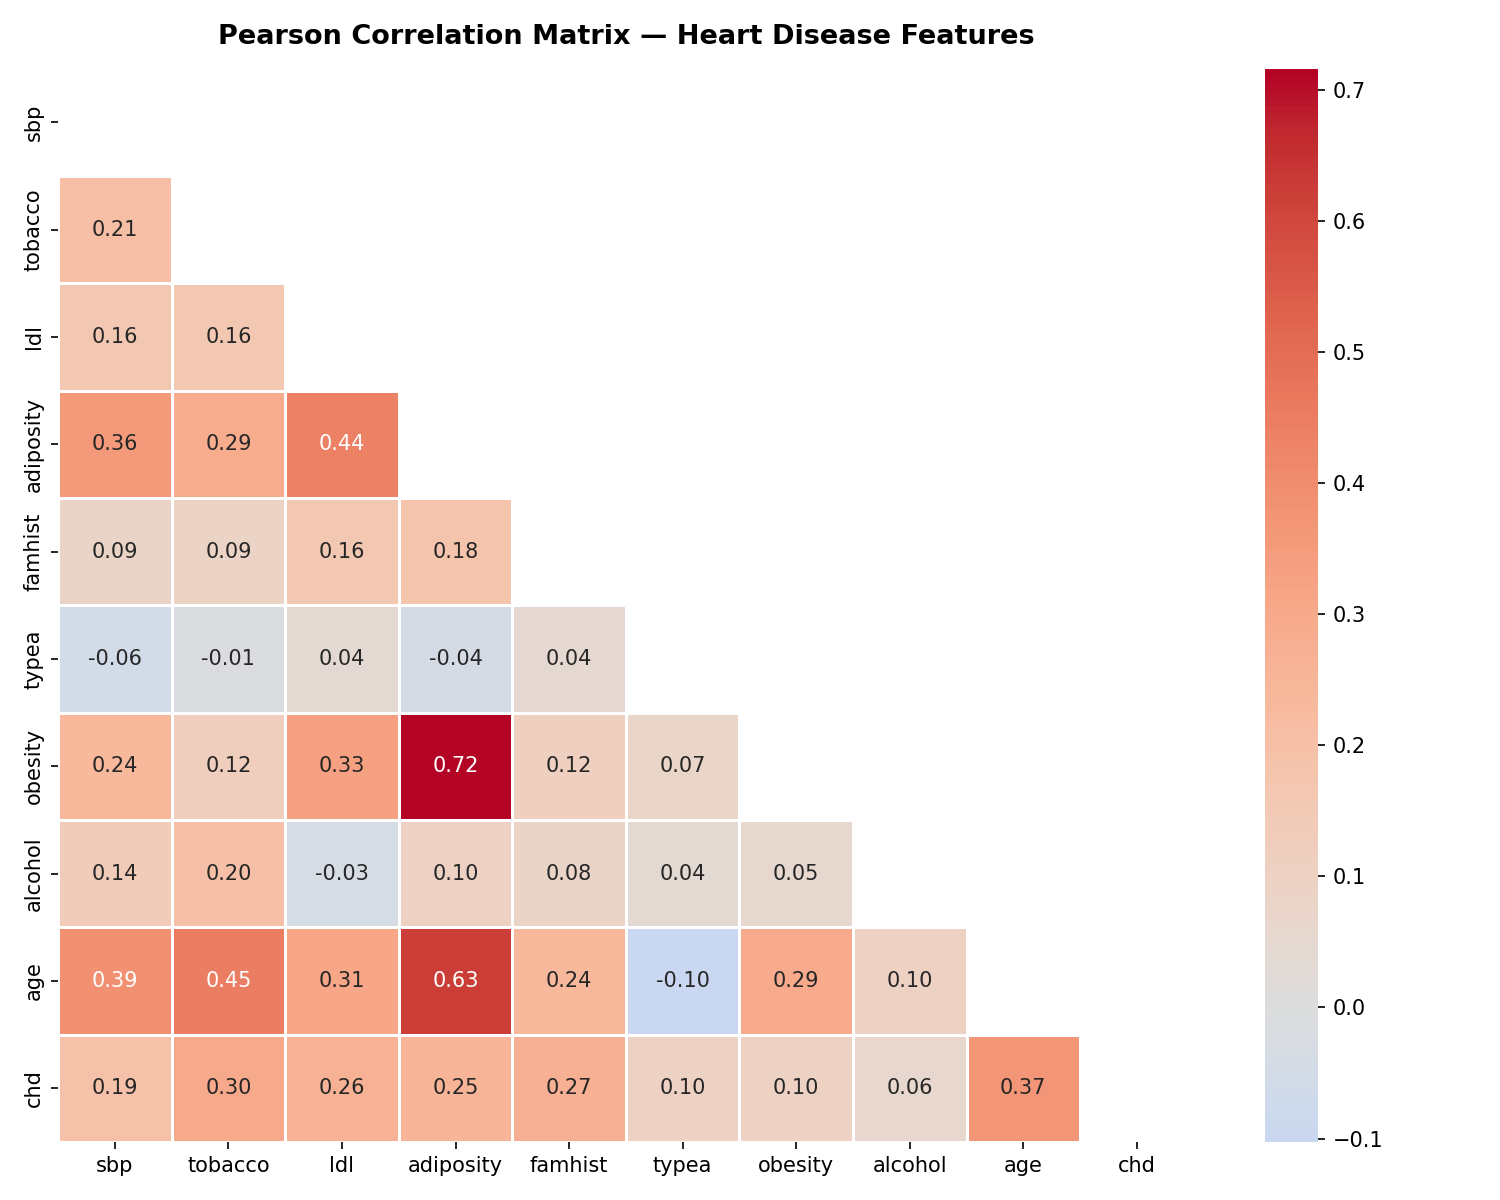
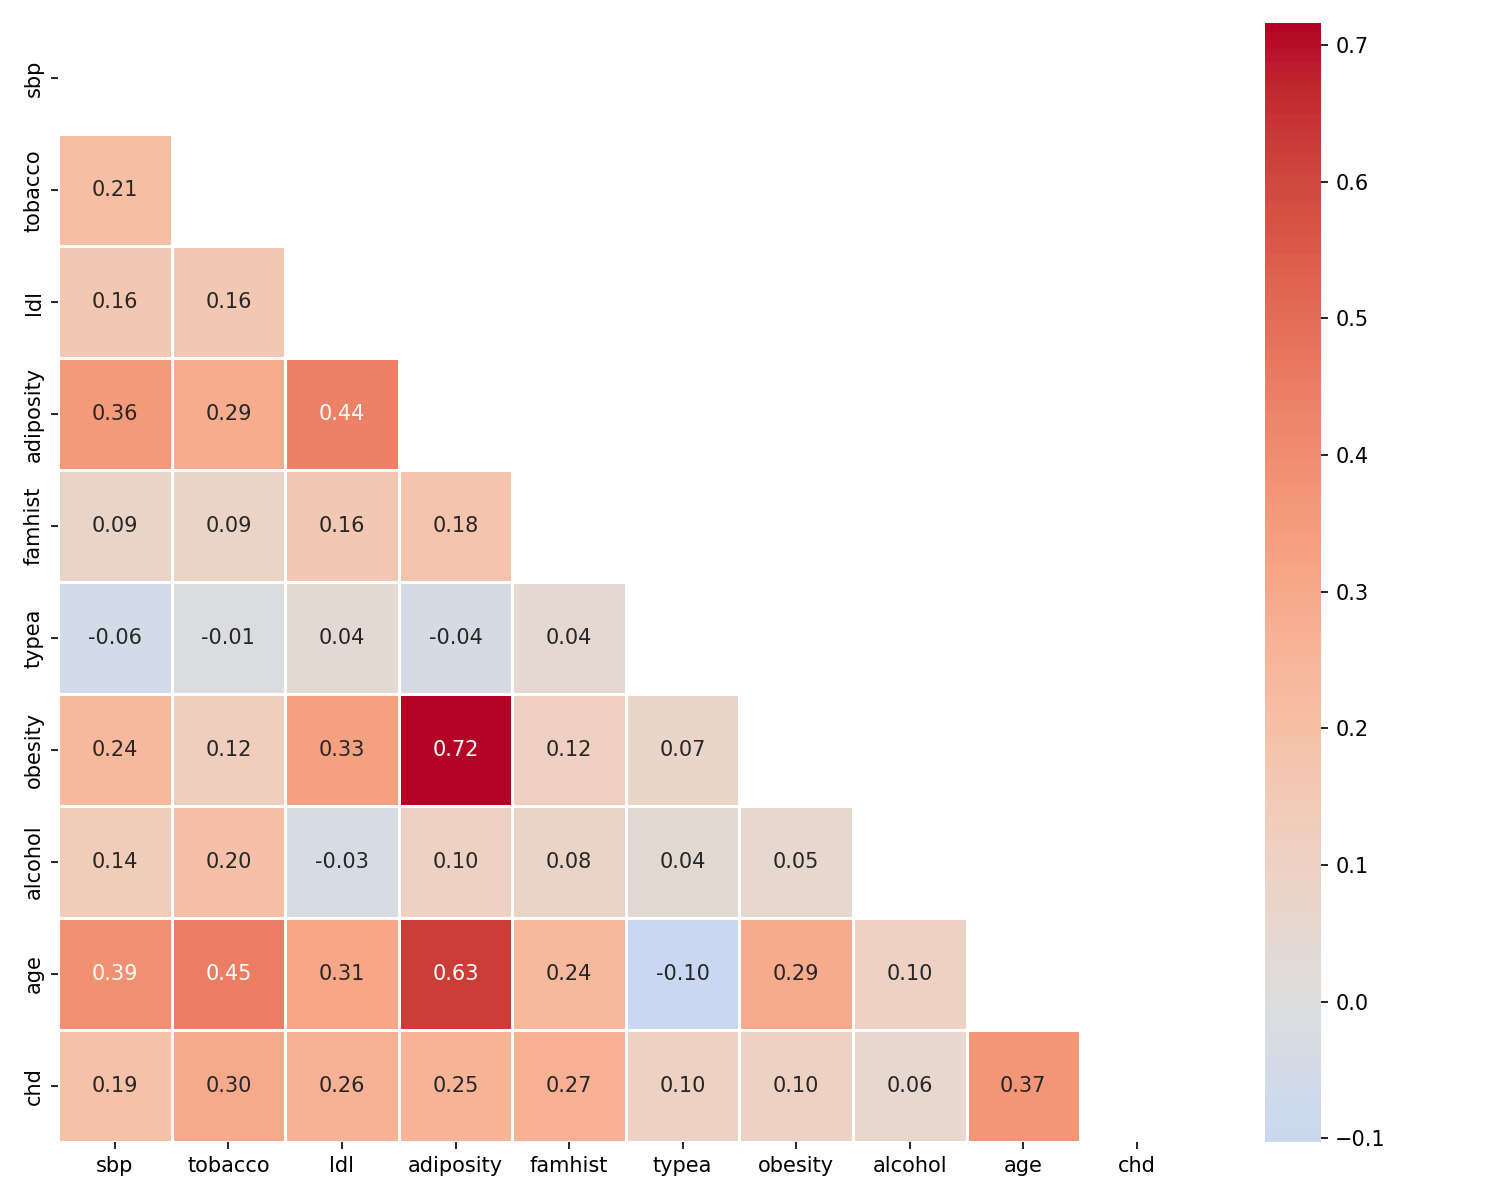
Remove titles from Figure 1 (correlation heatmap) and Figure 2 (log-transformed features)

diff --git a/exploratory_data_analysis/eda_correlation.py b/exploratory_data_analysis/eda_correlation.py
@@ -64,8 +64,6 @@ def run(df: pd.DataFrame) -> None:
         corr, mask=mask, annot=True, fmt=".2f",
         cmap="coolwarm", center=0, linewidths=0.5, ax=ax
     )
-    ax.set_title("Pearson Correlation Matrix — Heart Disease Features",
-                 fontsize=13, fontweight="bold", pad=12)
     plt.tight_layout()
     heatmap_path = os.path.join(OUTPUT_DIR, "fig_correlation_heatmap.png")
     plt.savefig(heatmap_path, dpi=150)

diff --git a/exploratory_data_analysis/eda_distribution.py b/exploratory_data_analysis/eda_distribution.py
@@ -216,8 +216,6 @@ def run(df: pd.DataFrame) -> None:
             fontsize=10)
         axes[1, j].set_ylabel("Density")
 
-    fig.suptitle("Log-Transformation of Dynamically Identified Skewed Features",
-                 fontsize=13, fontweight="bold")
     plt.tight_layout()
     log_path = os.path.join(OUTPUT_DIR, "fig_log_transformed_features.png")
     plt.savefig(log_path, dpi=150)
